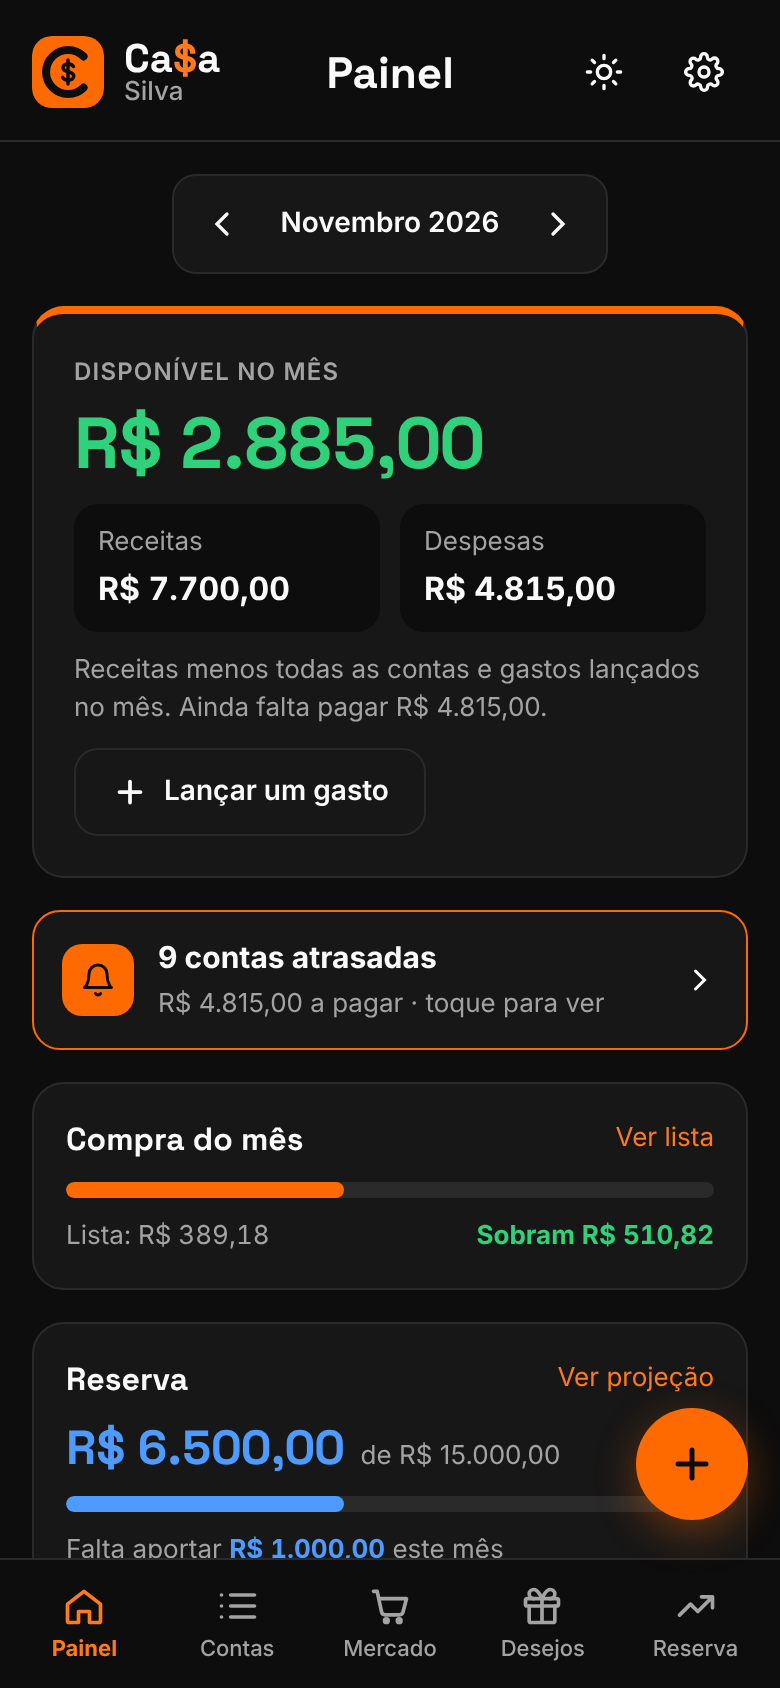
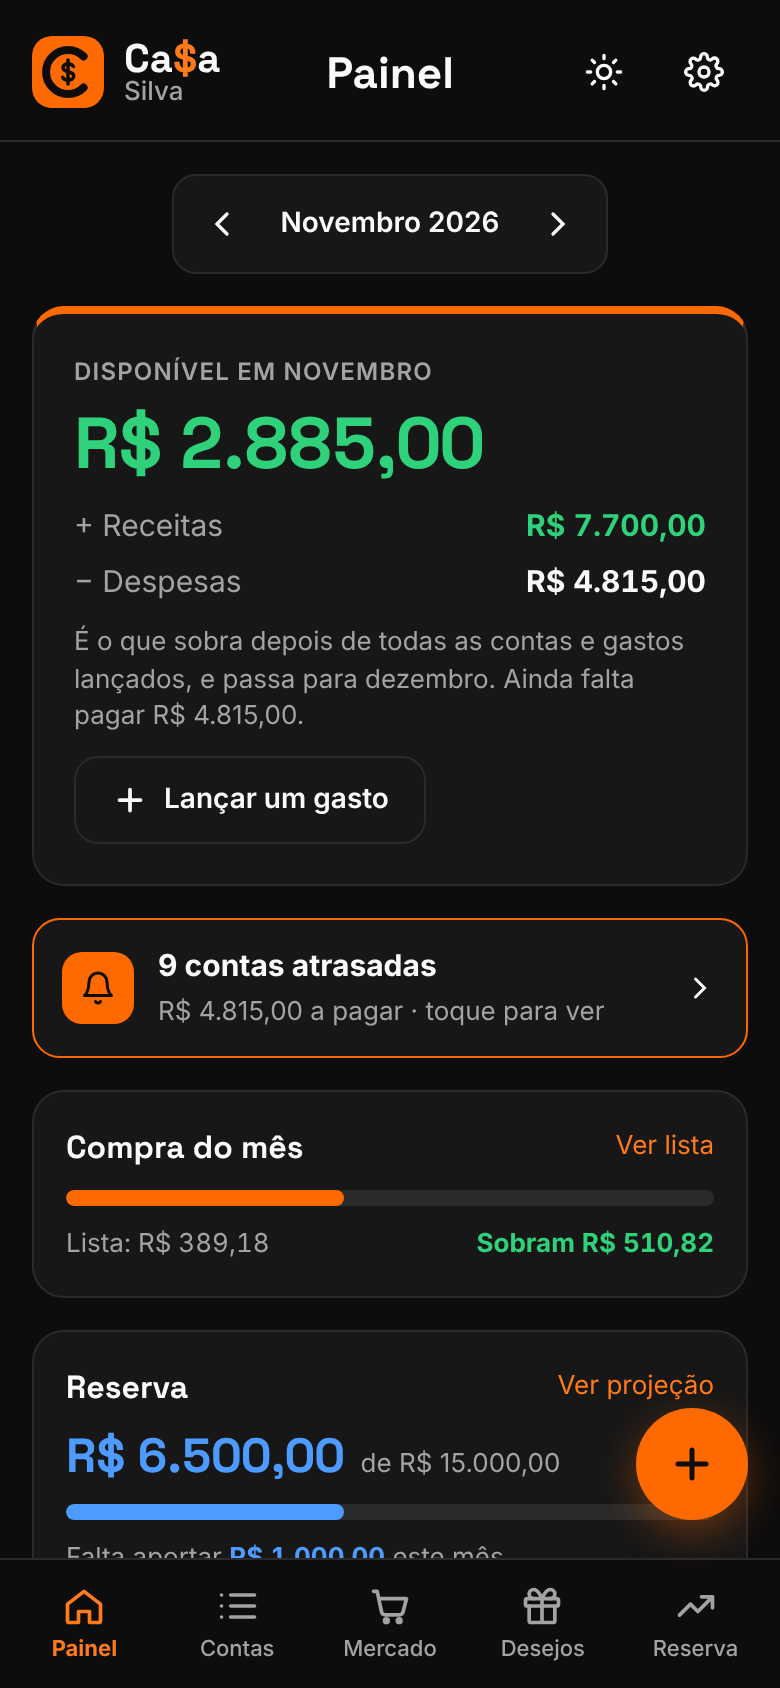
Contas em uma tela só e saldo que passa para o mês seguinte
- Receitas e despesas juntas (lado a lado no PC), sem abas
- Balanço do mês: sobra do mês anterior + receitas - despesas = fica para o próximo
- Painel e faixa do topo mostram o disponível acumulado
- Ajustes: escolher o mês em que começa a contar e o saldo inicial

Claude-Session: https://claude.ai/code/session_01TarmwYJmGaFE76QnseJHn3

diff --git a/js/app.js b/js/app.js
@@ -108,11 +108,11 @@
 
   // ---------------------------------------------------------------- backend: demonstração (só neste navegador)
   function demoBackend() {
-    const KEY = 'casa-demo-v3';
+    const KEY = 'casa-demo-v4';
     const now = () => new Date().toISOString();
     // Família fictícia, com valores inventados, só para demonstração
     const seed = () => {
-      const f = { id: uuid(), sobrenome: 'Silva', codigo_convite: 'DEMO42', limite_mercado: 900, aporte_mensal: 1000, meta_reserva: 15000 };
+      const f = { id: uuid(), sobrenome: 'Silva', codigo_convite: 'DEMO42', limite_mercado: 900, aporte_mensal: 1000, meta_reserva: 15000, saldo_desde: null, saldo_inicial: 0 };
       const me = { user_id: 'demo-user', familia_id: f.id, nome: 'Ana', criado_em: now() };
       const c = (nome, valor, natureza, tipo, quem, recorrencia = 'mensal', parcelas = null) =>
         ({ id: uuid(), familia_id: f.id, nome, valor, natureza, tipo, quem, dia: 10, recorrencia, inicio: ym(), parcelas, fim: null, criado_em: now() });
@@ -230,6 +230,24 @@
     const aPagar = sum(des.filter((c) => !c.pago), (c) => c.valorMes);
     return { l, rec, des, R, D, sobra: R - D, aPagar, pago: D - aPagar };
   }
+  // Saldo que passa de um mês para o seguinte
+  const temSaldoCols = () => !!S.familia && Object.prototype.hasOwnProperty.call(S.familia, 'saldo_desde');
+  function inicioSaldo() {
+    const f = S.familia || {};
+    if (/^\d{4}-\d{2}$/.test(String(f.saldo_desde || ''))) return f.saldo_desde;
+    return S.data.contas.map((c) => c.inicio).filter(Boolean).sort()[0] || ym();
+  }
+  function saldoAnterior(m) {
+    const base = inicioSaldo();
+    if (m < base) return 0;
+    let saldo = Number(S.familia?.saldo_inicial) || 0;
+    let k = base; let n = 0;
+    for (; k < m && n < 600; k = addMonths(k, 1), n++) saldo += resumo(k).sobra;
+    return Math.round(saldo * 100) / 100;
+  }
+  function balanco(m) { const r = resumo(m); const ant = saldoAnterior(m); return { ...r, ant, final: Math.round((ant + r.sobra) * 100) / 100, base: inicioSaldo() }; }
+  const nomeMes = (m) => MESES[Number(m.slice(5)) - 1];
+
   function prazo(c, m) {
     // dias até vencer: negativo = atrasada; null = mês futuro
     const hoje = ym();
@@ -498,9 +516,9 @@
   function disponivelFixo() {
     const m = ym();
     if (S.view === 'painel' && S.mes === m) return '';
-    const r = resumo(m); if (!r.l.length) return '';
-    return `<a class="subbar dispo" href="#painel" data-act="ir-hoje" aria-label="Disponível em ${MESES[Number(m.slice(5)) - 1]}: ${brl(r.sobra)}. Abrir o painel">
-      <span class="small muted">Disponível em ${MESES[Number(m.slice(5)) - 1]}</span><b class="num ${r.sobra >= 0 ? 'green' : 'danger'}">${brl(r.sobra)}</b></a>`;
+    const b = balanco(m); if (!b.l.length && !b.ant) return '';
+    return `<a class="subbar dispo" href="#painel" data-act="ir-hoje" aria-label="Disponível em ${nomeMes(m)}: ${brl(b.final)}. Abrir o painel">
+      <span class="small muted">Disponível em ${nomeMes(m)}</span><b class="num ${b.final >= 0 ? 'green' : 'danger'}">${brl(b.final)}</b></a>`;
   }
   function shell(inner) {
     const titulos = { painel: 'Painel', contas: 'Contas', mercado: 'Mercado', desejos: 'Desejos', reserva: 'Reserva', ajustes: 'Ajustes' };
@@ -529,8 +547,18 @@
   }
 
   // ---------------------------------------------------------------- Painel
+  // Linhas do balanço: sobra do mês anterior + receitas − despesas
+  function balancoLinhas(b, m) {
+    const mostraAnt = b.ant !== 0 || m > b.base;
+    return `<div class="bal">
+      ${mostraAnt ? `<div class="bal-row"><span>${b.ant >= 0 ? 'Sobrou' : 'Faltou'} de ${nomeMes(addMonths(m, -1))} <a class="small" href="#ajustes" aria-label="Ajustar o saldo entre meses">ajustar</a></span><b class="num ${b.ant < 0 ? 'danger' : ''}">${b.ant < 0 ? '− ' : ''}${brl(Math.abs(b.ant))}</b></div>` : ''}
+      <div class="bal-row"><span>+ Receitas</span><b class="num green">${brl(b.R)}</b></div>
+      <div class="bal-row"><span>− Despesas</span><b class="num">${brl(b.D)}</b></div>
+    </div>`;
+  }
   function viewPainel() {
     const r = resumo(S.mes);
+    const bal = balanco(S.mes);
     const mt = mercadoTotais(); const rv = reservaTotais();
     const atual = S.mes === ym();
     let alerta = '';
@@ -558,21 +586,18 @@
     } else if (!alerta && r.des.length) {
       alerta = `<div class="alert ok"><span class="ic">${I.ok}</span><span><b>Tudo pago em ${monthLabel(S.mes).toLowerCase()}</b></span></div>`;
     }
-    if (!r.l.length) {
+    if (!r.l.length && !bal.ant) {
       return `<div class="card empty"><h2>Nenhuma conta em ${monthLabel(S.mes).toLowerCase()}</h2><p style="margin:0">Lance o salário, o aluguel e as outras contas. As que se repetem aparecem sozinhas nos próximos meses.</p><button class="btn primary" data-act="nova-conta">${I.plus} Lançar primeira conta</button></div>`;
     }
     const pctMerc = mt.limite ? Math.min(100, Math.round((mt.total / mt.limite) * 100)) : 0;
     const pctRes = rv.meta ? Math.min(100, Math.round((rv.estimado / rv.meta) * 100)) : 0;
     return `
     <div class="grid">
-      <section class="card hero" aria-label="Sobra do mês">
-        <span class="label">Disponível no mês</span>
-        <span class="big num ${r.sobra >= 0 ? 'green' : 'danger'}">${brl(r.sobra)}</span>
-        <div class="pair">
-          <div class="pill"><span class="small muted">Receitas</span><span class="v num">${brl(r.R)}</span></div>
-          <div class="pill"><span class="small muted">Despesas</span><span class="v num">${brl(r.D)}</span></div>
-        </div>
-        <span class="small muted">${r.sobra >= 0 ? 'Receitas menos todas as contas e gastos lançados no mês.' : 'As despesas do mês estão maiores que as receitas.'}${r.aPagar > 0 ? ` Ainda falta pagar ${brl(r.aPagar)}.` : ''}</span>
+      <section class="card hero" aria-label="Disponível em ${nomeMes(S.mes)}">
+        <span class="label">Disponível em ${nomeMes(S.mes)}</span>
+        <span class="big num ${bal.final >= 0 ? 'green' : 'danger'}">${brl(bal.final)}</span>
+        ${balancoLinhas(bal, S.mes)}
+        <span class="small muted">É o que sobra depois de todas as contas e gastos lançados, e passa para ${nomeMes(addMonths(S.mes, 1))}.${r.aPagar > 0 ? ` Ainda falta pagar ${brl(r.aPagar)}.` : ''}</span>
         <button class="btn" data-act="novo-gasto" style="align-self:flex-start">${I.plus} Lançar um gasto</button>
       </section>
       <div style="display:flex;flex-direction:column;gap:16px;min-width:0">
@@ -607,30 +632,44 @@
     if (d === 1) return ['Vence amanhã', ''];
     return [`Vence dia ${c.dia}`, ''];
   }
+  function linhaConta(c) {
+    const rec = c.natureza === 'receita';
+    const [st, cls] = statusConta(c);
+    const sub = [c.tipo, c.quem, c.parcelaTxt && `parcela ${c.parcelaTxt}`].filter(Boolean).join(' · ');
+    return `<div class="item ${c.pago ? 'done' : ''}">
+      <button class="check ${rec ? 'rec' : ''} ${c.pago ? 'on' : ''}" data-act="pagar" data-id="${c.id}" aria-pressed="${c.pago}" aria-label="${c.pago ? 'Desmarcar' : (rec ? 'Marcar como recebida' : 'Marcar como paga')}: ${h(c.nome)}">${c.pago ? I.check : ''}</button>
+      <div class="body" data-act="editar-conta" data-id="${c.id}" role="button" tabindex="0" aria-label="Editar ${h(c.nome)}"><span class="title">${h(c.nome)}</span><span class="sub">${h(sub)}${c.ajustado ? ' · valor só deste mês' : ''}</span></div>
+      <div class="end"><span class="val num ${rec && !c.pago ? 'green' : ''}">${brl(c.valorMes)}</span><span class="when ${cls}">${st}</span></div>
+    </div>`;
+  }
   function viewContas() {
-    const r = resumo(S.mes);
-    const rec = S.filtroContas === 'receita';
-    const lista = (rec ? r.rec : r.des).slice().sort((a, b) => (a.pago - b.pago) || (a.dia - b.dia) || (b.valorMes - a.valorMes));
-    const items = lista.map((c) => {
-      const [st, cls] = statusConta(c);
-      const sub = [c.tipo, c.quem, c.parcelaTxt && `parcela ${c.parcelaTxt}`].filter(Boolean).join(' · ');
-      return `<div class="item ${c.pago ? 'done' : ''}">
-        <button class="check ${rec ? 'rec' : ''} ${c.pago ? 'on' : ''}" data-act="pagar" data-id="${c.id}" aria-pressed="${c.pago}" aria-label="${c.pago ? 'Desmarcar' : (rec ? 'Marcar como recebida' : 'Marcar como paga')}: ${h(c.nome)}">${c.pago ? I.check : ''}</button>
-        <div class="body" data-act="editar-conta" data-id="${c.id}" role="button" tabindex="0" aria-label="Editar ${h(c.nome)}"><span class="title">${h(c.nome)}</span><span class="sub">${h(sub)}${c.ajustado ? ' · valor só deste mês' : ''}</span></div>
-        <div class="end"><span class="val num ${rec && !c.pago ? 'green' : ''}">${brl(c.valorMes)}</span><span class="when ${cls}">${st}</span></div>
-      </div>`;
-    }).join('');
+    const b = balanco(S.mes);
+    const prox = addMonths(S.mes, 1);
+    const recs = b.rec.slice().sort((x, y) => (x.dia - y.dia) || (y.valorMes - x.valorMes));
+    const dess = b.des.slice().sort((x, y) => (x.pago - y.pago) || (x.dia - y.dia) || (y.valorMes - x.valorMes));
+    const aReceber = sum(b.rec.filter((c) => !c.pago), (c) => c.valorMes);
+    const coluna = (tipo, lista, total, falta) => {
+      const rec = tipo === 'receita';
+      return `<section class="col" aria-label="${rec ? 'Receitas' : 'Despesas'}">
+        <div class="col-h">
+          <div><h2>${rec ? 'Receitas' : 'Despesas'}</h2><span class="small muted">${falta > 0 ? `${rec ? 'A receber' : 'A pagar'}: <b class="num ${rec ? 'green' : 'orange'}">${brl(falta)}</b>` : (lista.length ? (rec ? 'Tudo recebido' : 'Tudo pago') : '')}</span></div>
+          <b class="num ${rec ? 'green' : ''}" style="font-size:18px">${brl(total)}</b>
+        </div>
+        <div class="list">${lista.map(linhaConta).join('') || `<span class="small muted" style="padding:8px 4px">Nenhuma ${rec ? 'receita' : 'despesa'} em ${nomeMes(S.mes)}.</span>`}</div>
+        <button class="btn ghost add" data-act="nova-conta" data-nat="${tipo}">${I.plus} ${rec ? 'Nova receita' : 'Nova despesa'}</button>
+      </section>`;
+    };
     return `
-      <div class="pair">
-        <div class="card"><span class="small muted">${rec ? 'A receber' : 'A pagar'}</span><span class="mid num ${rec ? 'green' : 'orange'}">${brl(rec ? sum(r.rec.filter((c) => !c.pago), (c) => c.valorMes) : r.aPagar)}</span></div>
-        <div class="card"><span class="small muted">${rec ? 'Recebido' : 'Pago'}</span><span class="mid num">${brl(rec ? sum(r.rec.filter((c) => c.pago), (c) => c.valorMes) : r.pago)}</span></div>
+      <section class="card hero balanco" aria-label="Balanço de ${nomeMes(S.mes)}">
+        <span class="label">Balanço de ${nomeMes(S.mes)}</span>
+        ${balancoLinhas(b, S.mes)}
+        <div class="bal-total"><span>Fica para ${nomeMes(prox)}</span><b class="big num ${b.final >= 0 ? 'green' : 'danger'}">${b.final < 0 ? '− ' : ''}${brl(Math.abs(b.final))}</b></div>
+      </section>
+      <div class="cols">
+        ${coluna('receita', recs, b.R, aReceber)}
+        ${coluna('despesa', dess, b.D, b.aPagar)}
       </div>
-      <div class="seg" role="group" aria-label="Mostrar">
-        <button data-act="filtro" data-v="despesa" aria-pressed="${!rec}">Despesas (${r.des.length})</button>
-        <button data-act="filtro" data-v="receita" aria-pressed="${rec}">Receitas (${r.rec.length})</button>
-      </div>
-      <div class="list">${items || `<div class="card empty"><span>Nada lançado em ${monthLabel(S.mes).toLowerCase()}.</span><button class="btn primary" data-act="nova-conta">${I.plus} Nova conta</button></div>`}</div>
-      <p class="hint">Toque no quadrado para marcar como ${rec ? 'recebida' : 'paga'}. Toque no nome para mudar valor, dia de vencimento ou apagar.</p>`;
+      <p class="hint">Toque no quadrado para marcar como paga ou recebida. Toque no nome para mudar valor, dia de vencimento ou apagar. O que sobra (ou falta) num mês passa para o seguinte.</p>`;
   }
 
   // ---------------------------------------------------------------- Mercado
@@ -881,6 +920,13 @@
         <button class="btn primary" type="submit">Salvar</button>
       </form>
       <div style="display:flex;flex-direction:column;gap:16px;min-width:0">
+        ${temSaldoCols() || DEMO ? `<form class="card form" data-form="ajustes-saldo">
+          <h2>Saldo entre meses</h2>
+          <span class="small muted">O que sobra (ou falta) num mês passa para o seguinte. Escolha a partir de quando começar a contar e quanto vocês já tinham nesse mês.</span>
+          <div class="field"><label for="aj-desde">Começar a contar em</label><select class="input" id="aj-desde" name="saldo_desde">${opcoesMes(inicioSaldo())}</select></div>
+          <div class="field"><label for="aj-saldo">Saldo que já tinham no começo desse mês</label><input class="input" id="aj-saldo" name="saldo_inicial" inputmode="numeric" data-money value="${fmtNum(f.saldo_inicial || 0)}"><span class="hint">Pode deixar zero. Se o saldo for negativo, lance a diferença como uma despesa no mês.</span></div>
+          <button class="btn primary" type="submit">Salvar</button>
+        </form>` : `<section class="card"><h2>Saldo entre meses</h2><span class="small">Para escolher a partir de quando a sobra passa de um mês para o outro, rode o arquivo <b>supabase/atualizacao-5-saldo-entre-meses.sql</b> no Supabase. Por enquanto a conta começa no primeiro mês com lançamentos.</span></section>`}
         <section class="card">
           <h2>Convidar alguém da casa</h2>
           <span class="small muted">Na tela de cadastro, a pessoa cria a conta, escolhe "Tenho um código" e digita:</span>
@@ -1086,9 +1132,8 @@
     'onb-tab': (el) => { S.onboardTab = el.dataset.v; S.msg = ''; render(); },
     logout: async () => { await API.signOut(); S.phase = 'auth'; S.authView = 'login'; S.familia = null; S.membro = null; lsDel('casa-view'); render(); },
     mes: (el) => { S.mes = addMonths(S.mes, Number(el.dataset.v)); render(); },
-    filtro: (el) => { S.filtroContas = el.dataset.v; render(); },
-    'nova-conta': () => {
-      const rec = S.view === 'contas' && S.filtroContas === 'receita';
+    'nova-conta': (el) => {
+      const rec = el && el.dataset && el.dataset.nat === 'receita';
       const hoje = S.mes === ym() ? new Date().getDate() : 10;
       const nat = rec ? 'receita' : 'despesa';
       openSheet('conta', { natureza: nat, valor: 0, nome: '', dia: hoje, tipo: rec ? 'Salário' : 'Fixa', quem: 'Casa', recorrencia: 'mensal', parcelas: 2, inicio: inicioSugerido(hoje, nat), inicioAuto: true, jaPago: 'nao' });
@@ -1388,6 +1433,13 @@
       S.phase = 'auth'; S.authView = 'login'; S.familia = null; S.membro = null;
       TABLES.forEach((t) => { S.data[t] = []; });
       render(); toast('Sua conta foi excluída.');
+    },
+    async 'ajustes-saldo'(fd) {
+      const desde = String(fd.get('saldo_desde') || '');
+      const patch = { saldo_desde: /^\d{4}-\d{2}$/.test(desde) ? desde : null, saldo_inicial: parseMoney(fd.get('saldo_inicial')) };
+      Object.assign(S.familia, patch);
+      await mut(() => API.updateFamilia(S.familia.id, patch));
+      render(); toast(`Saldo contado a partir de ${monthLabel(inicioSaldo()).toLowerCase()}.`);
     },
     async 'ajustes-familia'(fd) {
       const patch = {

diff --git a/css/styles.css b/css/styles.css
@@ -290,3 +290,19 @@ select.input.mini { height: 40px; font-size: 13px; padding: 0 8px; min-width: 0;
 /* Disponível do mês, fixo no topo */
 .subbar.dispo { flex-direction: row; justify-content: space-between; align-items: center; gap: 12px; color: var(--fg); padding: 2px 0; }
 .subbar.dispo b { font-size: 16px; }
+
+/* ---------- Balanço do mês e contas em uma tela ---------- */
+.bal { display: flex; flex-direction: column; gap: 6px; }
+.bal-row { display: flex; justify-content: space-between; align-items: baseline; gap: 12px; font-size: 15px; }
+.bal-row > span { color: var(--muted); }
+.bal-row a { margin-left: 6px; }
+.bal-total { display: flex; justify-content: space-between; align-items: baseline; gap: 12px; border-top: 1px solid var(--line); padding-top: 10px; margin-top: 2px; flex-wrap: wrap; }
+.bal-total > span { font-weight: 600; }
+.balanco .big { font-size: 32px; }
+.cols { display: grid; grid-template-columns: minmax(0, 1fr); gap: 16px; align-items: start; }
+@media (min-width: 760px) { .cols { grid-template-columns: repeat(2, minmax(0, 1fr)); } }
+.col { display: flex; flex-direction: column; gap: 8px; min-width: 0; }
+.col-h { display: flex; justify-content: space-between; align-items: flex-end; gap: 12px; padding: 0 4px; }
+.col-h h2 { font-size: 18px; }
+.col-h > div { display: flex; flex-direction: column; gap: 2px; min-width: 0; }
+.btn.add { align-self: flex-start; color: var(--accent-text); border-style: dashed; }

diff --git a/sw.js b/sw.js
@@ -1,6 +1,6 @@
 // Ca$a — service worker: abre rápido e funciona mesmo com internet fraca.
 // Dados (Supabase e Banco Central) sempre vêm da rede.
-const CACHE = 'casa-v8';
+const CACHE = 'casa-v9';
 const SHELL = ['./', 'index.html', 'css/styles.css', 'js/app.js', 'js/config.js', 'manifest.webmanifest',
   'privacidade.html', 'icons/icon.svg', 'icons/icon-192.png', 'icons/icon-512.png', 'icons/apple-touch-icon.png', 'icons/favicon-32.png', 'favicon.ico'];
 

diff --git a/PUBLICAR.md b/PUBLICAR.md
@@ -46,4 +46,4 @@ Tudo gratuito. Leva uns 20 minutos.
 
 ## Atualizações do banco
 
-Se você instalou uma versão anterior, rode no SQL Editor os arquivos `supabase/atualizacao-2-exclusao-segura.sql`, `atualizacao-3-desejos.sql` e `atualizacao-4-mercado-e-contas.sql`, nessa ordem. Todos podem ser rodados mais de uma vez sem problema.
+Se você instalou uma versão anterior, rode no SQL Editor os arquivos `supabase/atualizacao-2-exclusao-segura.sql`, `atualizacao-3-desejos.sql`, `atualizacao-4-mercado-e-contas.sql` e `atualizacao-5-saldo-entre-meses.sql`, nessa ordem. Todos podem ser rodados mais de uma vez sem problema.
